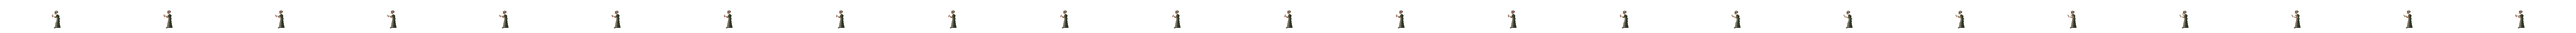
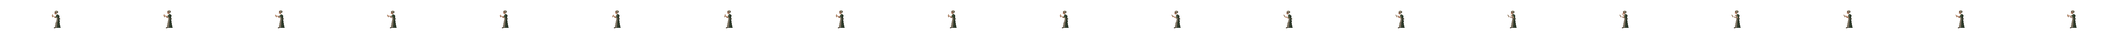
Curandeira: a moagem em poses sustentadas (protótipo, quarta passada)
Jogando, o braço do almofariz parecia mais contínuo que o resto do corpo. A volta passa de
12 poses de um tique a 7 poses sustentadas, na mesma duração (Pita 1,2 s, Marta 1,4 s): a
pressão longe do corpo dura 4 a 6 tiques, com a cabeça terminando de descer no meio dela.
O relógio da cena continua a 100 ms. Ao recuperar o pilão, a mão alcança o cabo antes de
fechar nele (saltava 6 px).

A terceira passada fica congelada em anterior/terceira ("Moagem anterior" na faixa); a
segunda continua em anterior/camadas ("Segunda passada"). Só no protótipo.

diff --git a/ferramentas/prototipos/curandeira/tela/cena-curandeira.js b/ferramentas/prototipos/curandeira/tela/cena-curandeira.js
@@ -10,8 +10,9 @@
    camadas/rotina.json: para cada uma, o quadro de cada tique (`tempo`) e a pose do movimento reduzido (`parada`).
    Movimento reduzido (ou o botão da faixa): a pose parada, o fogo e o vapor parados.
 
-   A faixa pode mostrar a passada anterior (anterior/camadas: o giro do braço, 12 poses, quatro voltas e a pausa) para
-   comparar; essa pasta não é escrita por nenhum script.
+   Para comparar, a faixa mostra a moagem da terceira passada (anterior/terceira: a volta contínua, 12 poses de um
+   tique) ou a segunda passada inteira (anterior/camadas: o giro só do braço, quatro voltas e a pausa). Nenhum script
+   escreve em anterior/.
 
    Exporta window.CenaCurandeira = { base, desenhar, pontos, poseDe, QW, QH }. */
 "use strict";
@@ -24,12 +25,16 @@
     NOMES.forEach((n) => { const i = new Image(); i.src = `/proto-cur/${pasta}/${n}.png`; im[n] = i; });
     return im;
   };
-  const IM = carregar("camadas"), ANT = carregar("anterior");
-  let ROTINA = null;
+  const IM = carregar("camadas"), ANT = carregar("anterior/camadas");
+  const TERCEIRA = {};  // a moagem contínua da terceira passada: as figuras e a rotina dela, sobre o mesmo fundo
+  ["pita", "marta"].forEach((n) => { const i = new Image(); i.src = `/proto-cur/anterior/terceira/${n}.png`; TERCEIRA[n] = i; });
+  let ROTINA = null, ROTINA3 = null;
   fetch("/proto-cur/camadas/rotina.json").then((r) => r.json()).then((j) => { ROTINA = j; }).catch(() => {});
+  fetch("/proto-cur/anterior/terceira/rotina.json").then((r) => r.json()).then((j) => { ROTINA3 = j; }).catch(() => {});
   const pronta = (i) => i.complete && i.naturalWidth > 0;
   const reduzido = () => matchMedia("(prefers-reduced-motion: reduce)").matches || document.body.dataset.curReduzido === "1";
   const anterior = () => document.body.dataset.curAnterior === "1";
+  const terceira = () => !anterior() && document.body.dataset.curTerceira === "1";
 
   /** O quadro de quem atende no tique q: o da rotina (ou, na passada anterior, o do giro com a pausa). */
   function poseDe(q, quem) {
@@ -37,12 +42,12 @@
       const D = 12 * 4 + 12, r = ((q % D) + D) % D;
       return r < 48 ? r % 12 : 0;
     }
-    const rot = ROTINA && ROTINA[quem];
+    const fonte = terceira() ? ROTINA3 : ROTINA, rot = fonte && fonte[quem];
     if (!rot) return 0;
     const n = rot.tempo.length;
     return rot.tempo[((q % n) + n) % n];
   }
-  const parada = (quem) => (anterior() || !ROTINA ? 0 : ROTINA[quem].parada);
+  const parada = (quem) => { const f = terceira() ? ROTINA3 : ROTINA; return anterior() || !f ? 0 : f[quem].parada; };
 
   function base(W, d) {
     const k = document.createElement("canvas"); k.width = QW; k.height = QH;
@@ -66,7 +71,7 @@
     tira(c, A.fogo, passo);
     if (escura && pronta(A.baldes)) c.drawImage(A.baldes, 0, 0);
     tira(c, escura ? A["vapor-forte"] : A.vapor, passo);
-    tira(c, A[quem], quieto ? parada(quem) : poseDe(quadro, quem));
+    tira(c, terceira() ? TERCEIRA[quem] : A[quem], quieto ? parada(quem) : poseDe(quadro, quem));
     if (pronta(A.frente)) c.drawImage(A.frente, 0, 0);
   }
 

diff --git a/ferramentas/prototipos/curandeira/tela/faixa.js b/ferramentas/prototipos/curandeira/tela/faixa.js
@@ -1,5 +1,5 @@
 /* A faixa da demonstração da curandeira (protótipo): troca o estado da história no save temporário (quem atende),
-   liga a pose parada do movimento reduzido e mostra a passada anterior para comparar (só a arte: o serviço é o
+   liga a pose parada do movimento reduzido e mostra as passadas anteriores para comparar (só a arte: o serviço é o
    mesmo). A troca de estado é um pedido ao motor, como um clique de cartão: só vale com a cabana aberta (o motor muda
    o estado e abre a cabana de novo). */
 "use strict";
@@ -12,7 +12,8 @@
   f.id = "faixa-cur";
   f.innerHTML = `<b>Curandeira (protótipo)</b>${ESTADOS.map(([id, nome]) => `<button type="button" data-cur="${id}">${nome}</button>`).join("")}
     <button type="button" data-reduzido aria-pressed="false">Pose parada</button>
-    <button type="button" data-anterior aria-pressed="false" title="A segunda passada: o giro do braço, antes da rotina">Passada anterior</button><span class="aviso"></span>`;
+    <button type="button" data-terceira aria-pressed="false" title="A terceira passada: a moagem contínua, 12 poses por volta">Moagem anterior</button>
+    <button type="button" data-anterior aria-pressed="false" title="A segunda passada: os maços antigos e o giro só do braço">Segunda passada</button><span class="aviso"></span>`;
   document.body.appendChild(f);
   const aviso = f.querySelector(".aviso");
   const marcar = () => {
@@ -31,5 +32,6 @@
     ev.currentTarget.setAttribute("aria-pressed", String(sim));
   });
   alternar("[data-reduzido]", "curReduzido");
+  alternar("[data-terceira]", "curTerceira");
   alternar("[data-anterior]", "curAnterior");
 })();

diff --git a/ferramentas/prototipos/curandeira/figuras.py b/ferramentas/prototipos/curandeira/figuras.py
@@ -176,38 +176,46 @@ def poses_rotina(quem):
                    "mao": (n[0] + 1, n[1] + 6)},
         "desce": {"ombro": (0, 0), "quadril": 0, "cabeca": (-1, 0, "frente"), "pilao": "encostado",
                   "mao": (pe[0] + 4, BOCA - 4)},
+        # a mão chega ao cabo encostado antes de fechar nele (não salta da boca do almofariz para o alto do pilão)
+        "alcanca": {"ombro": (0, 0), "quadril": 0, "cabeca": (-1, 0, "frente"), "pilao": "encostado",
+                    "mao": (pe[0], BOCA - 5)},
         "pega": {"ombro": (0, 0), "quadril": 0, "cabeca": (-1, 0, "frente"), "pilao": (-2, 0), "mao": "pilao"},
     }
 
 
+# A volta da moagem, (pose do giro, tiques de 100 ms), partindo da pose 1 (o pilão inclinado, onde a mão o pega de
+# novo) e fechando de pé. Quarta passada: poucas poses, cada uma sustentada, e o tempo indo para a pressão. Longe do
+# corpo, o peito vai à frente e desce (3) e, enquanto a pedra aperta, a cabeça termina de descer (4): o corpo assenta
+# no esforço. Depois a ponta passa na frente (6), volta para o lado do corpo (9), sobe (11) e fica de pé (0). Sete
+# poses no lugar de doze; a volta dura o mesmo (Pita 1,2 s, Marta 1,4 s). FREIO: a última meia volta, mais lenta.
+VOLTA = {"marta": [(1, 1), (3, 3), (4, 3), (6, 2), (9, 2), (11, 2), (0, 1)],
+         "pita": [(1, 1), (3, 2), (4, 2), (6, 2), (9, 2), (11, 2), (0, 1)]}
+FREIO = {"marta": [(6, 3), (9, 4), (11, 4), (0, 3)], "pita": [(6, 3), (9, 3), (11, 3), (0, 3)]}
+# A terceira passada (a volta contínua: as 12 poses, uma por tique) fica congelada em anterior/terceira.
+
 RITMO = {  # quantos tiques de 100 ms cada parte leva
-    "marta": {"voltas": 2, "aperto": 2, "inclina": 2, "abaixa": 2, "olha": 12, "solta": 2, "pitada": 4, "ergue": 2,
-              "endireita": 2, "cheira": 9, "afasta": 2, "desce": 2, "pega": 3},
-    "pita": {"voltas": 3, "aperto": 1, "inclina": 1, "abaixa": 2, "olha": 8, "solta": 2, "pitada": 3, "ergue": 1,
-             "endireita": 2, "cheira": 6, "afasta": 2, "desce": 2, "pega": 2},
+    "marta": {"voltas": 2, "inclina": 2, "abaixa": 2, "olha": 12, "solta": 2, "pitada": 4, "ergue": 2,
+              "endireita": 2, "cheira": 9, "afasta": 2, "desce": 2, "alcanca": 1, "pega": 2},
+    "pita": {"voltas": 3, "inclina": 1, "abaixa": 2, "olha": 8, "solta": 2, "pitada": 3, "ergue": 1,
+             "endireita": 2, "cheira": 6, "afasta": 2, "desce": 1, "alcanca": 1, "pega": 2},
 }
-VOLTA = list(range(1, 12)) + [0]  # a volta parte da pose 1 (o pilão inclinado, onde a mão o pega de novo) e fecha de pé
 
 
 def rotina(quem):
-    """A sequência de poses, um item por tique de 100 ms: [(nome da pose, k ou None)]. Marta aperta nas pontas da
-    volta (as poses 3 e 9 valem dois tiques); a última volta desacelera na metade (cada pose, dois tiques) e para de
-    pé; depois o olhar, a pitada e a volta ao pilão. A pega deixa o pilão onde a pose 1 o tem: a última pose emenda
-    na primeira."""
+    """A sequência de poses, um item por tique de 100 ms: [(nome da pose, k ou None)]. As voltas (VOLTA), a última
+    com a segunda metade mais lenta (FREIO) até o pilão parar de pé; depois o olhar, a pitada e a volta ao pilão. A
+    pega deixa o pilão onde a pose 1 o tem: a última pose emenda na primeira."""
     r = RITMO[quem]
     seq = []
-
-    def volta(ks, vezes=1):
-        for k in ks:
-            seq.extend([("giro", k)] * (r["aperto"] if k in (3, 9) else 1) * vezes)
-
+    volta = VOLTA[quem]
     for _ in range(r["voltas"]):
-        volta(VOLTA)
-    volta(VOLTA[:5])
-    volta(VOLTA[5:], vezes=2)                      # a desaceleração, até o pilão parar de pé
-    seq.extend([("giro", 0)] * 2)
+        for k, n in volta:
+            seq.extend([("giro", k)] * n)
+    for k, n in volta[:3] + FREIO[quem]:
+        seq.extend([("giro", k)] * n)
+    seq.extend([("giro", 0)] * 2)                  # o pilão parado de pé
     for nome in ("inclina", "abaixa", "olha", "solta", "pitada", "ergue", "endireita", "cheira", "afasta", "desce",
-                 "pega"):
+                 "alcanca", "pega"):
         seq.extend([(nome, None)] * r[nome])
     return seq
 

diff --git a/ferramentas/prototipos/curandeira/demo.py b/ferramentas/prototipos/curandeira/demo.py
@@ -11,8 +11,8 @@ pelo prédio da vila. Só nesta execução:
   as camadas de `camadas/` (exportadas por `exportar.py`);
 - o serviço é o de produção (`Servicos.curandeiro`), sem mudar: os cartões, os preços, quem atende e o que diz;
 - a faixa do alto troca o estado da história no save temporário (Pita com Marta de cama; Pita na noite da água
-  escura; Marta de pé), liga o movimento reduzido para ver a pose parada e troca para a passada anterior
-  (`anterior/camadas`), para comparar.
+  escura; Marta de pé), liga o movimento reduzido para ver a pose parada e mostra, para comparar, a moagem da
+  terceira passada (`anterior/terceira`) ou a segunda passada inteira (`anterior/camadas`).
 
 A porta é `DEMO_PORTA` (padrão 8793: não usa a 8791 do jogo nem a da demonstração da forja)."""
 import os
@@ -133,7 +133,7 @@ def rodar(ui, pasta):
 # ------------------------------------------------------------------ o servidor
 TELA = os.path.join(AQUI, "tela")
 CAMADAS = os.path.join(AQUI, "camadas")
-ANTERIOR = os.path.join(AQUI, "anterior", "camadas")  # a segunda passada, guardada para comparar (só leitura)
+ANTERIOR = os.path.join(AQUI, "anterior")  # as passadas anteriores, guardadas para comparar (só leitura)
 
 
 def servir():

diff --git a/ferramentas/prototipos/curandeira/exportar.py b/ferramentas/prototipos/curandeira/exportar.py
@@ -8,8 +8,8 @@ As tiras de quadros vão lado a lado, 320 px cada (como as da forja): fogo (4), 
 100 ms (`tempo`) e qual é a pose parada do movimento reduzido (`parada`): a linha do tempo sai de `figuras.py`, não é
 repetida na tela.
 
-Só escreve em `camadas/` (e em `conferencia/` com --ver). A passada anterior, guardada para comparação em
-`anterior/camadas/`, nunca é escrita por script."""
+Só escreve em `camadas/` (e em `conferencia/` com --ver). As passadas anteriores, guardadas para comparação em
+`anterior/` (a segunda em `camadas/`, a moagem da terceira em `terceira/`), nunca são escritas por script."""
 import json
 import os
 import sys

diff --git a/ferramentas/prototipos/curandeira/LEIA-ME.md b/ferramentas/prototipos/curandeira/LEIA-ME.md
@@ -1,6 +1,6 @@
 # Protótipo: o interior da curandeira (candidata A)
 
-28/10/2026, terceira passada. **Só no protótipo, esperando a avaliação do Jean.** O jogo não carrega esta pasta; a cabana do jogo
+28/10/2026, quarta passada. **Só no protótipo, esperando a avaliação do Jean.** O jogo não carrega esta pasta; a cabana do jogo
 continua a tela de sempre, sem ambiente. Nada do templo nem da taverna foi começado. Feito pelo fluxo da skill
 `arte-cenas-fenda`.
 
@@ -17,7 +17,8 @@ prédio da vila**. A faixa do alto troca o estado da história e mostra a pose p
 | **Pita (a água escura)** | a noite em que a fonte corre escura (Destruir, no mesmo dia) | Pita no almofariz; a panela fervendo forte e dois baldes de água junto do fogão ("ferve água para os doentes") |
 | **Marta (de pé)** | a água limpou (Dar descanso, três dias depois) | Marta, magra, de lenço e mangas arregaçadas, no almofariz |
 | **Pose parada** | — | a pose do movimento reduzido (o mesmo que a preferência do sistema): inclinada sobre o almofariz, a mão no pilão |
-| **Passada anterior** | — | a segunda passada (os maços antigos e o giro só do braço), para comparar; a arte vem de `anterior/camadas`, que nenhum script escreve |
+| **Moagem anterior** | — | a moagem da terceira passada (a volta contínua, 12 poses de um tique), sobre o mesmo cenário; de `anterior/terceira` |
+| **Segunda passada** | — | a segunda passada inteira (os maços antigos e o giro só do braço); de `anterior/camadas`. Nenhum script escreve em `anterior/` |
 
 A troca só vale com a cabana aberta: o motor muda o estado e abre a cabana de novo. O serviço é o de produção
 (`Servicos.curandeiro`), sem mudar: os cartões, os preços, quem atende e a fala. As duas não aparecem juntas: pela
@@ -50,7 +51,7 @@ Uma rotina de trabalho, decidida pelos apoios antes dos quadros (o passo a passo
 
 | Trecho | Conduz | Acompanha | Fica |
 |---|---|---|---|
-| moer (voltas de 12 poses a 100 ms) | a mão no pilão (a ponta de cima numa elipse) | o cotovelo; os ombros 1 px à frente onde o pilão vai longe e 1 px abaixo onde a pedra aperta; a cabeça, um quadro depois | os pés, o quadril, a saia, o almofariz, a mão de longe na borda |
+| moer (voltas de 7 poses sustentadas; quarta passada) | a mão no pilão (a ponta de cima numa elipse) | o cotovelo; os ombros 1 px à frente onde o pilão vai longe e 1 px abaixo onde a pedra aperta; a cabeça, um quadro depois | os pés, o quadril, a saia, o almofariz, a mão de longe na borda |
 | desacelerar | a última meia volta, dois tiques por pose, até o pilão parar de pé | — | — |
 | olhar a mistura | o tronco: o peito à frente, depois o quadril para trás e o peito desce | o rosto vira para dentro do almofariz por último; o alto da saia vai com o quadril | a barra, os pés, a mão no pilão |
 | a pitada | a mão: solta o pilão (encostado na borda de longe), tira uma pitada, sobe até o nariz | o corpo se endireita atrás da mão; a cabeça vem encontrar a mão | a mão de longe no almofariz |
@@ -78,7 +79,8 @@ tela só a lê.
 - `exportar.py`: as camadas de `camadas/` e o `rotina.json` (a demonstração lê delas); com `--ver`, composições
   ampliadas numa pasta `conferencia/` para conferir o desenho (trabalho, não entrega, fora do repositório). Não
   escreve em `anterior/`.
-- `anterior/camadas/`: a segunda passada exportada, congelada para a comparação na faixa.
+- `anterior/camadas/`: a segunda passada exportada; `anterior/terceira/`: as figuras e a rotina da terceira. Congeladas
+  para a comparação na faixa.
 - `demo.py` e `tela/` (`cena-curandeira.js`, `curandeira.css`, `faixa.js`): a cena registrada ao lado da forja só na
   página da demonstração, a troca de estado e a faixa.
 
@@ -165,3 +167,29 @@ atividade; sem erros no console. A 1280, a faixa da demonstração cobre o alto 
 
 **Para avaliar (Jean):** as ervas no tamanho do jogo; a rotina das duas (o corpo, as pausas, a pitada, a volta); o
 banquinho da Pita; os rostos. Compare com o botão **Passada anterior**.
+
+## Quarta passada (28/10/2026): o ritmo da moagem
+
+**O que o Jean disse:** gostou do cenário, dos ingredientes, da personalidade e da rotina; preservar. Jogando, o braço
+do almofariz parecia mais contínuo que o resto do corpo e que a linguagem de animação do jogo. Pediu menos poses
+intermediárias na moagem, as mais expressivas, a pressão sustentada, os tempos redistribuídos sem acelerar, o corpo
+participando como antes e as pausas de olhar e cheirar mantidas. Nada de decoração nova nem caminhada.
+
+**A volta:** 7 poses no lugar de 12, com a mesma duração (Pita 1,2 s, Marta 1,4 s): o pilão inclinado (1 tique); a
+pressão longe do corpo, com o peito à frente e embaixo (Marta 3 tiques, Pita 2), e a mesma pressão com a cabeça
+terminando de descer (3 e 2); a ponta passando na frente (2); do lado do corpo (2); subindo (2); de pé (1). A última
+meia volta segura mais cada pose até o pilão parar. O relógio da cena continua a 100 ms; o fogo e o vapor, a 200 ms.
+
+**Os contatos conferidos:** a mão de longe parada na borda do almofariz em todas as poses; a pitada saindo da boca do
+almofariz com o pilão encostado; ao recuperar o pilão, a mão agora alcança o cabo antes de fechar nele (antes saltava
+6 px num tique). O banquinho da Pita e a roupa acompanhando o corpo, como antes.
+
+**No jogo, junto (1.217.0, fora do protótipo):** a cabana abre sem ferimento, com "Nenhum ferimento a tratar." na área
+do serviço, e tratar o último não tira o jogador dela; os cartões dizem "Vida máxima −10%" (o atributo antes do valor).
+
+**Conferido:** no jogo, a 1920×945 e a 1280×720 (a demonstração subida do zero em cada uma): os cartões, o clique duplo
+tratando um só, o último ferimento pelo teclado (Tab e Enter) com o ouro, o ferimento e a vida máxima atualizados, a
+cabana continuando com a cena e os pontos, os três estados sem ferimento, sair e voltar três vezes sem ferimento com um
+relógio só, a pose parada, a moagem anterior, o Esc, sem erros no console.
+
+**Para avaliar (Jean):** a moagem nova contra a anterior (botão **Moagem anterior**).
